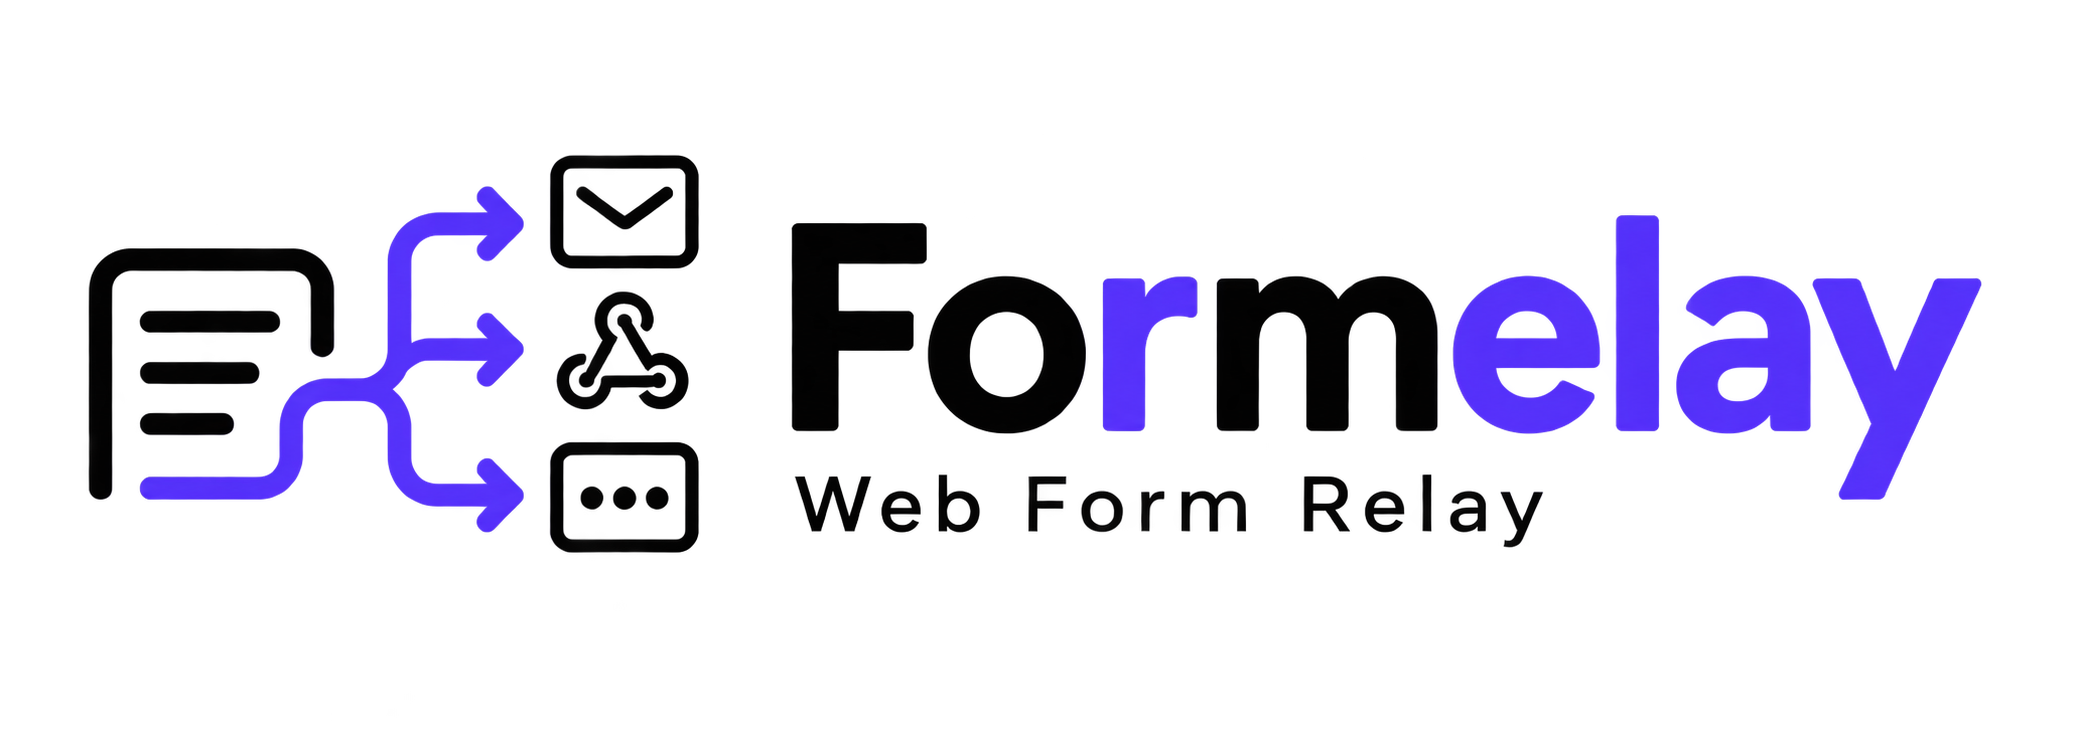
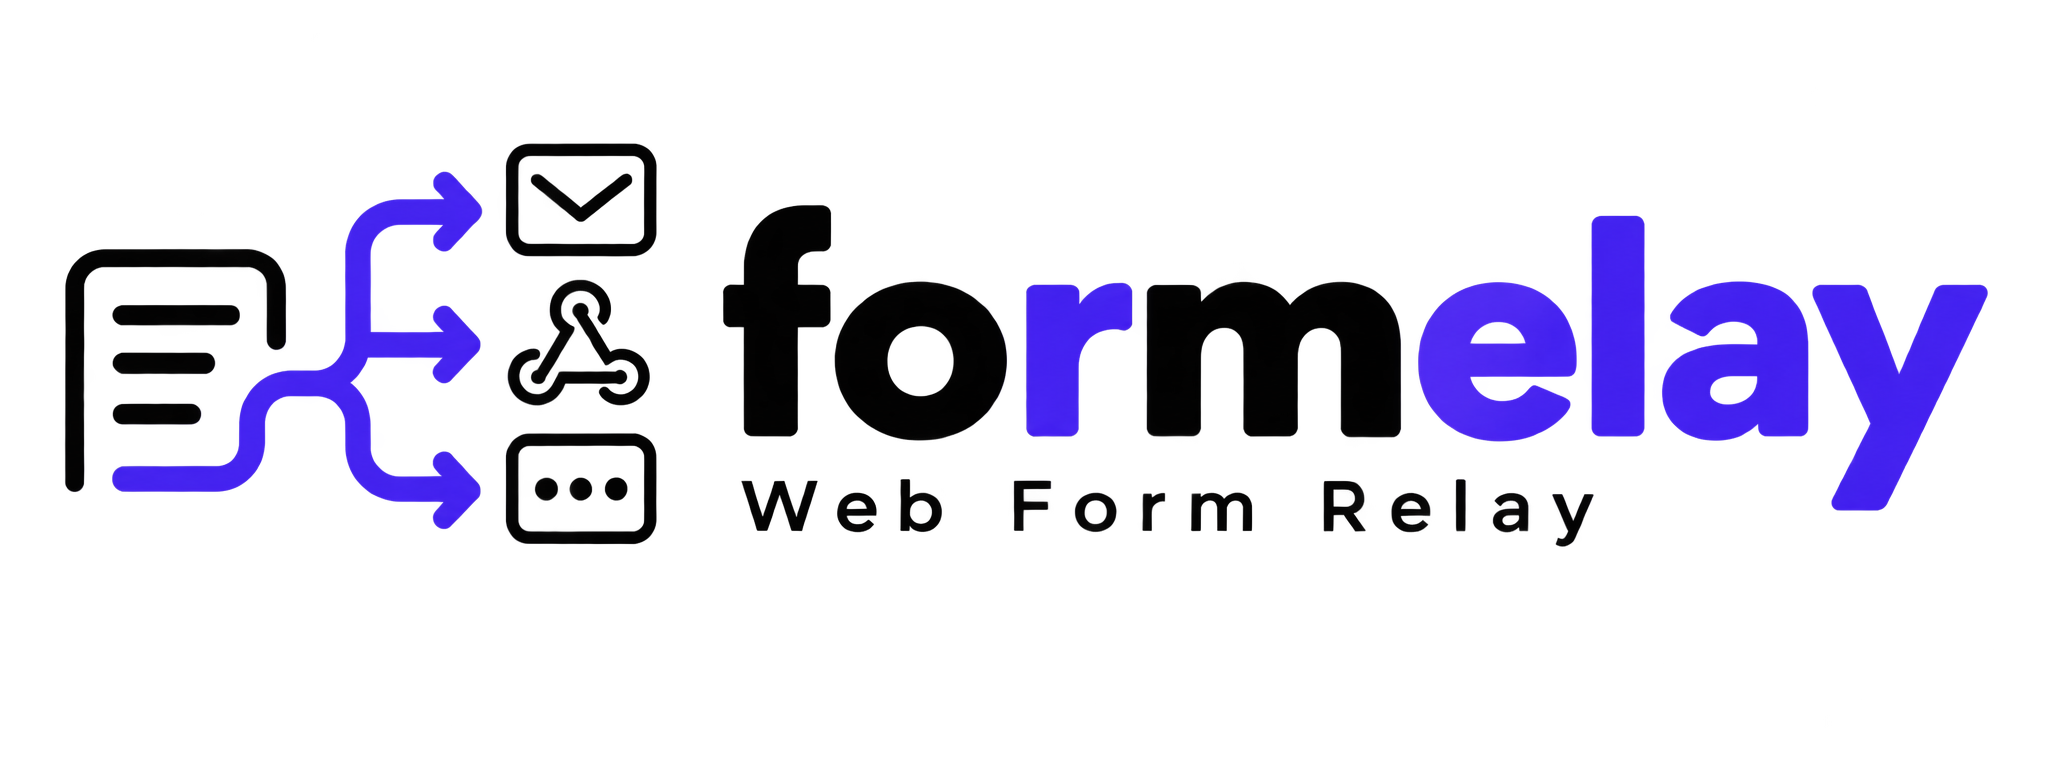
Rename Formelay to formelay

Changed region(s): [[0.0312, 0.1825, 0.9688, 0.7302]]

diff --git a/README.md b/README.md
@@ -2,7 +2,7 @@
   <picture>
     <source media="(prefers-color-scheme: dark)" srcset="assets/formelay-white.png">
     <source media="(prefers-color-scheme: light)" srcset="assets/formelay-black.png">
-    <img src="assets/formelay-black.png" alt="Formelay" width="360">
+    <img src="assets/formelay-black.png" alt="formelay" width="360">
   </picture>
 </p>
 
@@ -13,23 +13,23 @@
   <a href="LICENSE"><img src="https://img.shields.io/github/license/bossm8/formelay" alt="License"></a>
 </p>
 
-# Formelay
+# formelay
 
 **Receive website form submissions and relay them straight to your inbox.**
 
-Formelay is a lightweight, self-hosted relay for web form submissions. Point a plain HTML `<form>` or a `fetch()` call at it, and it authenticates the request, filters out spam, renders a template you control, and forwards the result to email, Discord, or any webhook-based service.
+formelay is a lightweight, self-hosted relay for web form submissions. Point a plain HTML `<form>` or a `fetch()` call at it, and it authenticates the request, filters out spam, renders a template you control, and forwards the result to email, Discord, or any webhook-based service.
 
 No dashboard, no database, no lock-in. Just a static binary and a YAML file, doing one job well.
 
 ## Why
 
-The case Formelay is built for: a fully static site (a static site generator's output, GitHub Pages, a CDN bucket, whatever) that still needs one genuinely interactive thing, a contact form, a signup box, a support form, without standing up a backend just for that. Point a plain `<form>` on that static site straight at Formelay from the browser and it works: real validation, spam defense, and delivery to your inbox or wherever, with no server code of your own anywhere in the picture.
+The case formelay is built for: a fully static site (a static site generator's output, GitHub Pages, a CDN bucket, whatever) that still needs one genuinely interactive thing, a contact form, a signup box, a support form, without standing up a backend just for that. Point a plain `<form>` on that static site straight at formelay from the browser and it works: real validation, spam defense, and delivery to your inbox or wherever, with no server code of your own anywhere in the picture.
 
-More generally: Formelay never stores what people submit, and every part of it (routing rules, spam defenses, delivery channels) lives in a config file next to your other infrastructure, rather than in a third-party dashboard. If you'd rather run this piece of your stack yourself than depend on a hosted form-backend service, this is that option.
+More generally: formelay never stores what people submit, and every part of it (routing rules, spam defenses, delivery channels) lives in a config file next to your other infrastructure, rather than in a third-party dashboard. If you'd rather run this piece of your stack yourself than depend on a hosted form-backend service, this is that option.
 
 ## Features
 
-- **Makes a static site interactive.** No backend of your own needed: a plain HTML `<form>` on a fully static site can point straight at Formelay and just work.
+- **Makes a static site interactive.** No backend of your own needed: a plain HTML `<form>` on a fully static site can point straight at formelay and just work.
 - **Multi-channel delivery.** Email (SMTP), Discord, and a generic outbound webhook out of the box, plus a clean `Notifier` interface for adding more without touching core code.
 - **Layered spam defense.** A free honeypot field, an optional CAPTCHA challenge (one generic verifier config-compatible with Turnstile, hCaptcha, reCAPTCHA v2/v3, and most other providers), and an optional AI content classifier with an injection-hardened default prompt.
 - **A security model that's honest about what it can guarantee.** The per-form site key is treated as what it actually is: a public capability token, not a secret, since anything shipped to a browser can't stay confidential. Origin allowlisting, rate limiting, and the layers above are what actually stop abuse.

diff --git a/docs/configuration.md b/docs/configuration.md
@@ -1,6 +1,6 @@
 # Configuration reference
 
-Formelay reads two kinds of YAML: one global `config.yaml`, and one file per form under `forms_dir` (`forms.d/*.yaml` by default). Both are strictly decoded — an unknown key is a config-load error, not a silently ignored typo. Both are hot-reloaded (fsnotify watching the directories, or `SIGHUP`): a new config is fully validated, including parsing every template it references, before it replaces the running one. An invalid change is rejected and logged; the previous config keeps serving.
+formelay reads two kinds of YAML: one global `config.yaml`, and one file per form under `forms_dir` (`forms.d/*.yaml` by default). Both are strictly decoded — an unknown key is a config-load error, not a silently ignored typo. Both are hot-reloaded (fsnotify watching the directories, or `SIGHUP`): a new config is fully validated, including parsing every template it references, before it replaces the running one. An invalid change is rejected and logged; the previous config keeps serving.
 
 Working examples of everything below live in [`config.example/`](../config.example/) and are explained end-to-end in [examples.md](examples.md).
 
@@ -13,7 +13,7 @@ Working examples of everything below live in [`config.example/`](../config.examp
 | `listen_addr` | string | `0.0.0.0:8080` | Public submission API listener. |
 | `read_timeout`, `write_timeout`, `idle_timeout`, `read_header_timeout` | duration | `read_header_timeout` falls back to `5s` if unset; others `0` (no timeout) | Standard `net/http.Server` timeouts. |
 | `shutdown_grace_period` | duration | `15s` | How long graceful shutdown waits for in-flight requests. |
-| `tls.enabled`, `tls.cert_file`, `tls.key_file` | bool, string, string | — | Reserved for direct TLS termination; most deployments terminate TLS in front of Formelay instead. |
+| `tls.enabled`, `tls.cert_file`, `tls.key_file` | bool, string, string | — | Reserved for direct TLS termination; most deployments terminate TLS in front of formelay instead. |
 | `trusted_proxies` | []string | `[]` | CIDRs (or bare IPs, treated as `/32`/`/128`) allowed to set `X-Forwarded-For`. Only trust your actual reverse proxy's address here. |
 
 ### `forms_dir`, `templates_dir`
@@ -48,7 +48,7 @@ A rate rule is `{rate: <float>, window: <duration>, burst: <float>}` — a token
 #### Rate limiting
 
 - **`memory`**: in-process, sharded token buckets. Correct for a single running instance; state is lost on restart and isn't shared across replicas.
-- **`valkey`**: bucket state lives in Valkey, updated atomically via a Lua script, so multiple Formelay replicas share the same limits. `New()` connects eagerly at startup — an unreachable Valkey at boot is a hard startup failure. `on_error` only governs a *later* outage (a `Do()` call failing after a successful connection): `allow` (default) degrades to unrate-limited rather than rejecting all traffic; `deny` fails closed.
+- **`valkey`**: bucket state lives in Valkey, updated atomically via a Lua script, so multiple formelay replicas share the same limits. `New()` connects eagerly at startup — an unreachable Valkey at boot is a hard startup failure. `on_error` only governs a *later* outage (a `Do()` call failing after a successful connection): `allow` (default) degrades to unrate-limited rather than rejecting all traffic; `deny` fails closed.
 
 ### `smtp_defaults`
 

diff --git a/docs/develop.md b/docs/develop.md
@@ -1,4 +1,4 @@
-# Developing Formelay
+# Developing formelay
 
 ## Project layout
 
@@ -42,11 +42,11 @@ GitHub Actions runs gofmt/vet/build/`-race`-tests/`govulncheck`/the Valkey integ
 ## Testing approach
 
 - Unit tests live next to the code they cover and run with `make test`/`make race`; no network or Docker needed.
-- `internal/ratelimit/valkey` additionally has an `integration` build-tagged suite (`internal/ratelimit/valkey/integration_test.go`) that only runs against a real Valkey, driven by `make test-integration` via `docker-compose.test.yml`. It's the one package where the in-process unit tests can't prove the thing that actually matters, that state is genuinely shared across two independently-constructed `Store` instances, standing in for two Formelay replicas.
+- `internal/ratelimit/valkey` additionally has an `integration` build-tagged suite (`internal/ratelimit/valkey/integration_test.go`) that only runs against a real Valkey, driven by `make test-integration` via `docker-compose.test.yml`. It's the one package where the in-process unit tests can't prove the thing that actually matters, that state is genuinely shared across two independently-constructed `Store` instances, standing in for two formelay replicas.
 - `internal/api`'s handler tests drive the real submission pipeline end to end (`httptest`, a fake rate limiter, a real `app.App`) rather than mocking individual steps, so they catch pipeline-ordering bugs a narrower unit test would miss.
 - `internal/captcha` additionally has a `live` build-tagged suite (`internal/captcha/live_test.go`, `make test-live`) that calls the real Turnstile and hCaptcha verify endpoints using each provider's official public test key pairs, no account or secret of your own needed. The regular `TestGenericVerifier*` unit tests only prove our code talks correctly to a fake server we wrote ourselves; this suite proves the request shape (field names, encoding, response parsing) matches what the real provider actually expects, including a `provider: generic` case (manually-configured fields, no preset) reused against Turnstile's real endpoint, and a negative case (Turnstile's always-fail test secret) so a `success: false` response is exercised too, not just `true`.
 
-## Extending Formelay
+## Extending formelay
 
 The channel, CAPTCHA, and spam-classifier subsystems are each a small `Registry` (`type: string` to Go constructor) plus a shared interface, following the same shape:
 
